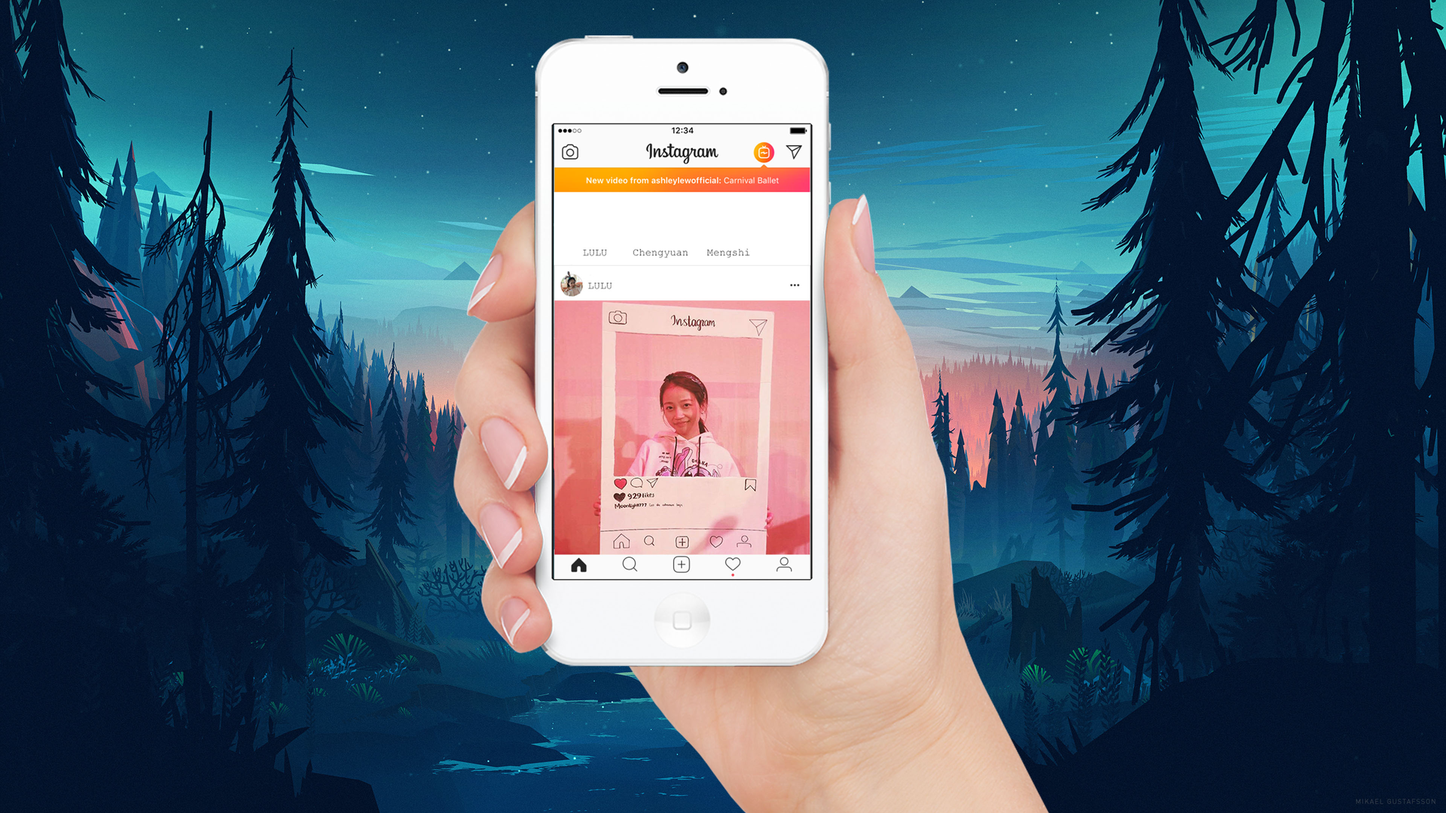
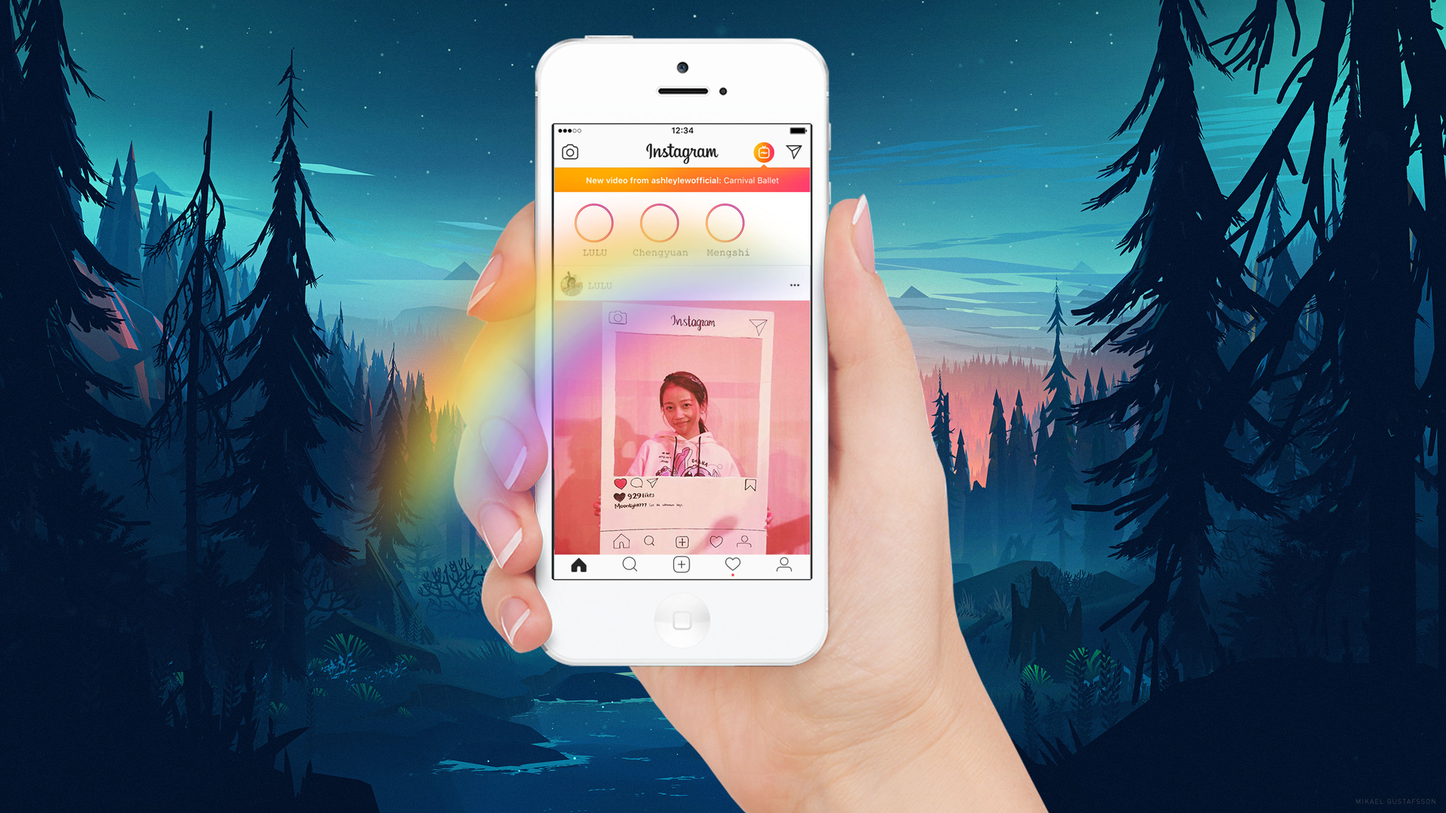
q

Changed region(s): [[0.2188, 0.2481, 0.5625, 0.6824]]

diff --git a/page2.html b/page2.html
@@ -5,7 +5,7 @@
      <link rel="stylesheet" type="text/css" href= "css/page2_style.css">
      <style>
      body {
-       background-image: url(/images/background2.jpg);
+       background-image: url(/images/forest2.jpg);
        background-repeat: no-repeat;
        background-size: cover;
        width: 100%;
@@ -17,20 +17,8 @@
   <body>
 
 
-    <div id="one">
-        <p>Lulu</p>
-    </div>
-
-    <div id="two">
-        <p>Mengshi</p>
-    </div>
-
-    <div id="three">
-        <p>Chengyuan</p>
-    </div>
-
     <div id="lulu">
-       <a href="lu_page_two.html"><img src="images/lulu.gif"alt="lulu" width="1000px">
+       <a href="lu_page_two.html"><img src="images/lulu2.gif"alt="lulu2" width="1000px">
     </div>
 
     <div id="mengshi">

diff --git a/index.html b/index.html
@@ -19,7 +19,7 @@
 
   <div id="handphone">
   <a href="page2.html">
-    <img src="images/handphone.png"alt="handphone" width="2000px"style="position:relative;top:500px;"
+    <img src="images/handphone.png"alt="handphone" width="2000px"style="position:relative;top:400px;"
 >
   </div>
   </body>

diff --git a/css/style.css b/css/style.css
@@ -4,8 +4,7 @@ body {
   text-align: center;}
 
 #headphone{
-  position:absolute;
-  left:2px;
+ position:relative;left:100px;
   z-index:-1;
   width: 100%;
 }
